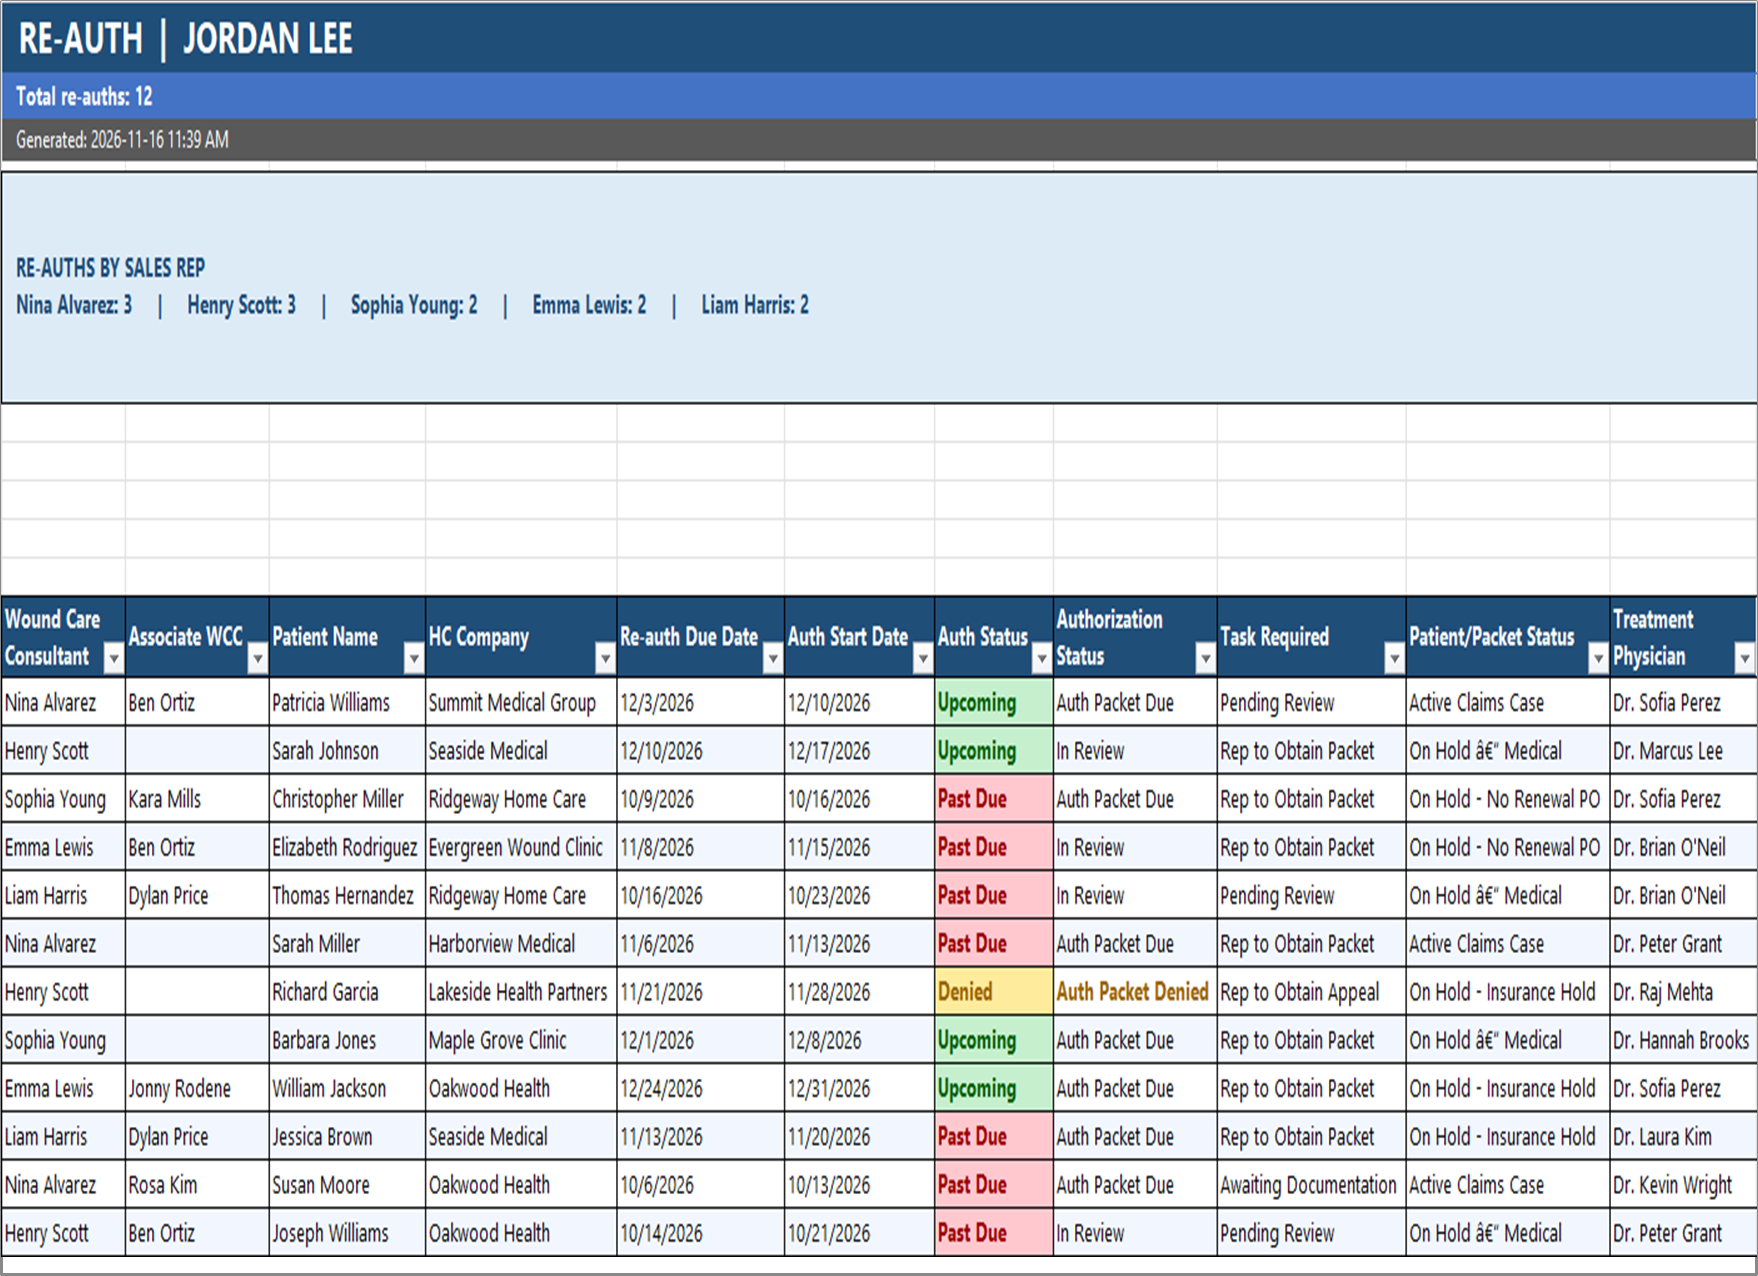
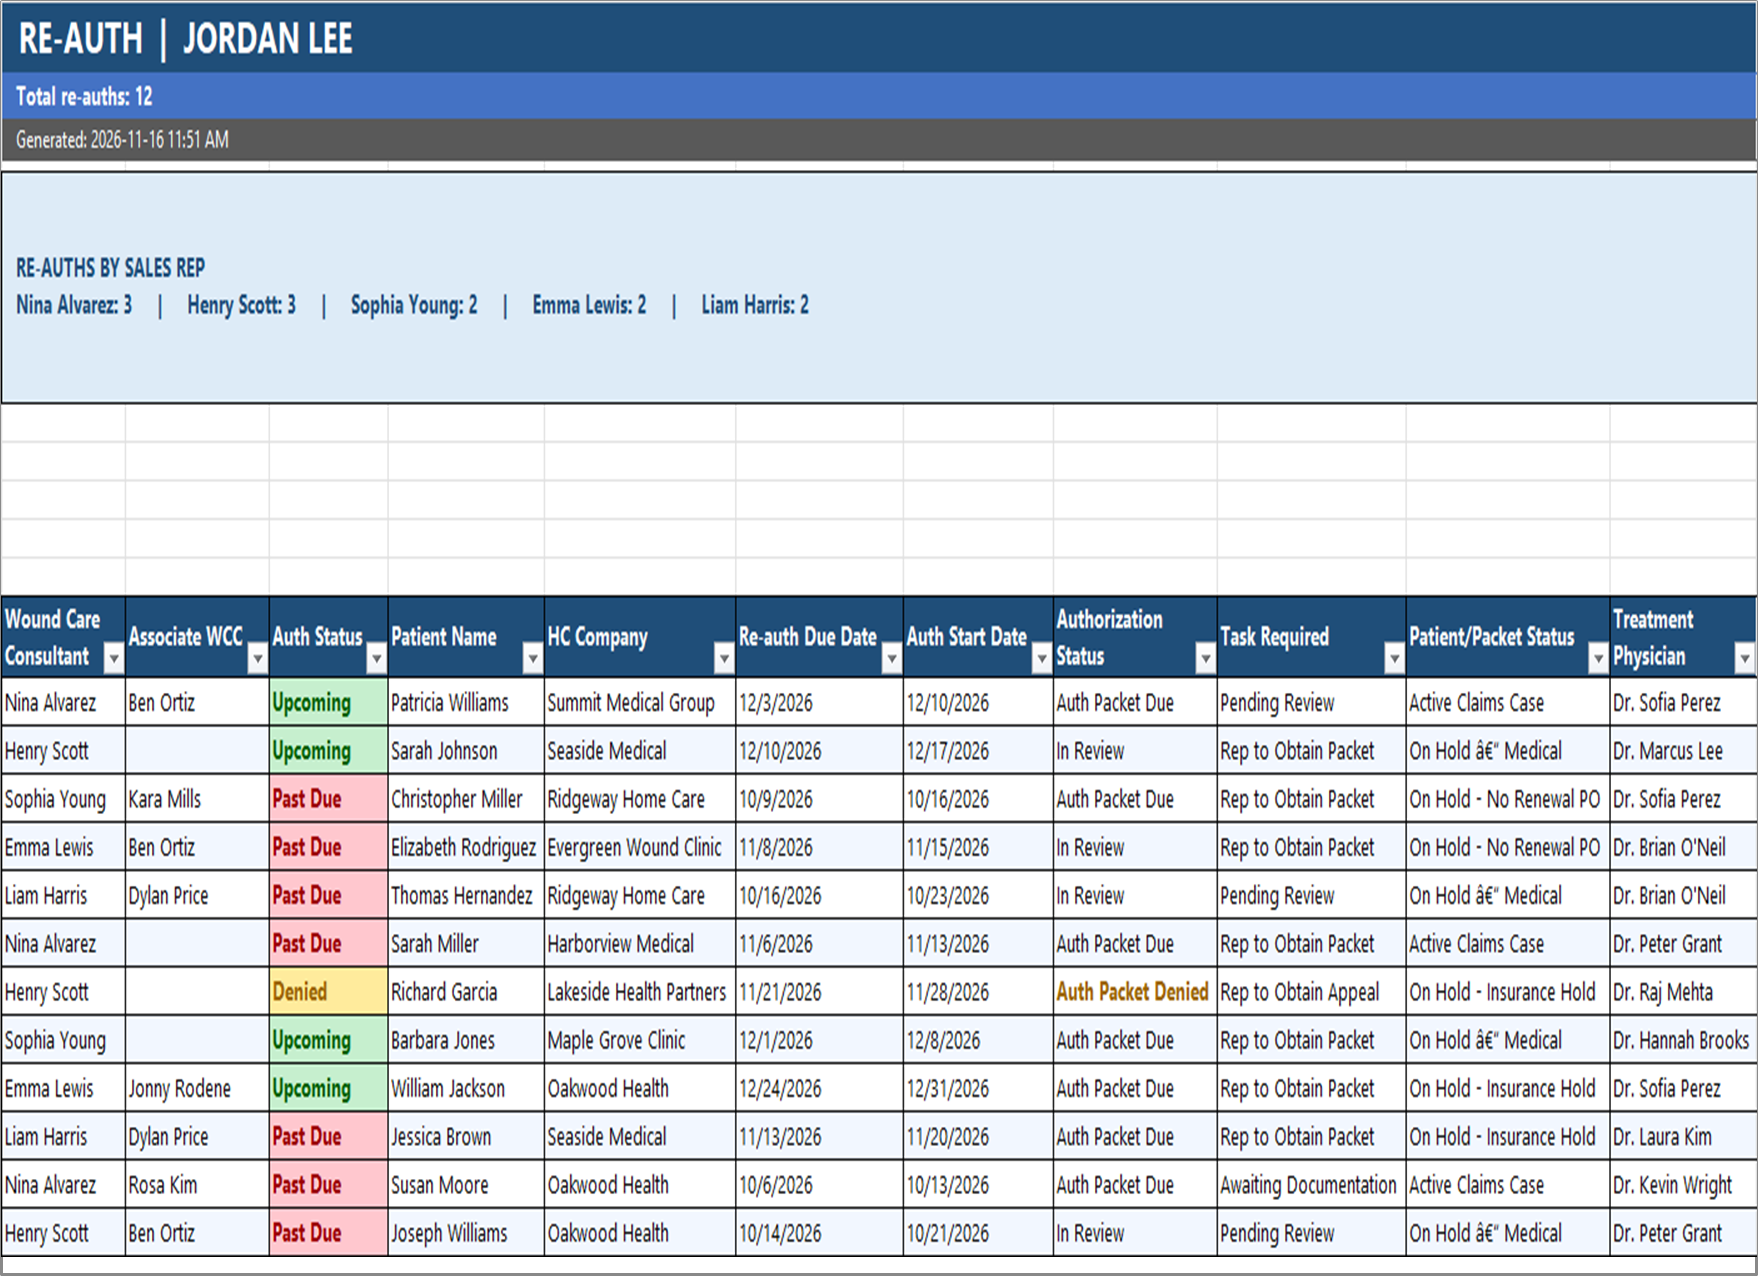
Move Auth Status in manager tabs, fix freeze panes, refresh report/screenshots (1151)

Changed region(s): [[0.1536, 0.489, 0.6143, 1.0]]

diff --git a/README.md b/README.md
@@ -6,7 +6,7 @@ Automated Excel/VBA report builder for **weekly pending and upcoming patient re-
 - **Template:** `Re-Auth Template.xlsm` (macro entry: `CreateReAuthReport`, button **CREATE RE-AUTH REPORT** on `START HERE`)
 - **Sample input:** `reauth raw.csv` (fake/sample data only)
 - **Output:** `Reports\ReAuth_Report_YYYY-mm-dd_HHMM.xlsx`
-- **Latest generated sample:** `Reports\ReAuth_Report_2026-11-16_1139.xlsx` (source: `reauth raw.csv`, 145 rows / 12 managers / 15 WCCs, generated 2026-11-16 11:39 AM)
+- **Latest generated sample:** `Reports\ReAuth_Report_2026-11-16_1151.xlsx` (source: `reauth raw.csv`, 145 rows / 12 managers / 15 WCCs, generated 2026-11-16 11:51 AM)
 
 > **GitHub display note:** GitHub renders a repository README in the section **below** the file browser by design. This README is kept at the repo root so the overview and screenshots appear in that rendered section when viewing the repository.
 
@@ -14,7 +14,7 @@ Automated Excel/VBA report builder for **weekly pending and upcoming patient re-
 
 ## Screenshots (clean capture from latest report)
 
-All screenshots below were exported from `Reports\ReAuth_Report_2026-11-16_1139.xlsx` using `scripts\snapshot-report.py` (Excel COM `CopyPicture` → chart export). They reflect the current layout, styling, and sample data.
+All screenshots below were exported from `Reports\ReAuth_Report_2026-11-16_1151.xlsx` using `scripts\snapshot-report.py` (Excel COM `CopyPicture` → chart export). They reflect the current layout, styling, and sample data.
 
 ### Dashboard
 KPI summary cards and a manager breakdown table aligned edge-to-edge across columns A:J.
@@ -211,7 +211,7 @@ The macro scans for a header row containing at least:
 - Finds the newest workbook in `Reports\` by default (or use `--path`).
 - Opens Excel via COM, activates each sheet, copies `UsedRange` as a picture, pastes/exports via a chart object to PNG.
 - Writes to `documentation/screenshots/` with deterministic names (`report-dashboard.png`, `report-<sheet>.png`, `report-raw-data.png`).
-- Clears existing PNGs in the output folder before export so screenshots stay in sync with the selected report.
+- By default clears existing PNGs in the output folder before a full export so screenshots stay in sync with the selected report. Use `--keep` to add/update specific sheets without removing others (recommended for partial runs).
 
 Examples:
 ```powershell
@@ -219,7 +219,7 @@ Examples:
 python .\scripts\snapshot-report.py
 
 # Export from a specific report
-python .\scripts\snapshot-report.py --path "Reports\ReAuth_Report_2026-11-16_1139.xlsx"
+python .\scripts\snapshot-report.py --path "Reports\ReAuth_Report_2026-11-16_1151.xlsx"
 
 # Export specific sheets only
 python .\scripts\snapshot-report.py --sheets Dashboard "Taylor Brooks" "Raw Data"
@@ -269,8 +269,8 @@ python .\scripts\run-report.py --source "$PWD\reauth raw.csv"
 
 ## Validation (latest)
 - `python .\scripts\test-compile.py` → `RESULT: COMPILE OK`, `COMPILE_OK=1`
-- `python .\scripts\run-report.py --source "$PWD\reauth raw.csv"` → `OUTCOME=SUCCESS`, `NEW_REPORT=...\Reports\ReAuth_Report_2026-11-16_1139.xlsx`
-- `python .\scripts\snapshot-report.py --path "Reports\ReAuth_Report_2026-11-16_1139.xlsx"` → exported dashboard, 12 manager tabs, `Unassigned`, and `Raw Data` to `documentation/screenshots/`
+- `python .\scripts\run-report.py --source "$PWD\reauth raw.csv"` → `OUTCOME=SUCCESS`, `NEW_REPORT=...\Reports\ReAuth_Report_2026-11-16_1151.xlsx`
+- `python .\scripts\snapshot-report.py --path "Reports\ReAuth_Report_2026-11-16_1151.xlsx"` → exported dashboard, 12 manager tabs, `Unassigned`, and `Raw Data` to `documentation/screenshots/`
 
 ## Known limitations / data safety
 - Large exports may increase runtime/memory usage in Excel.
